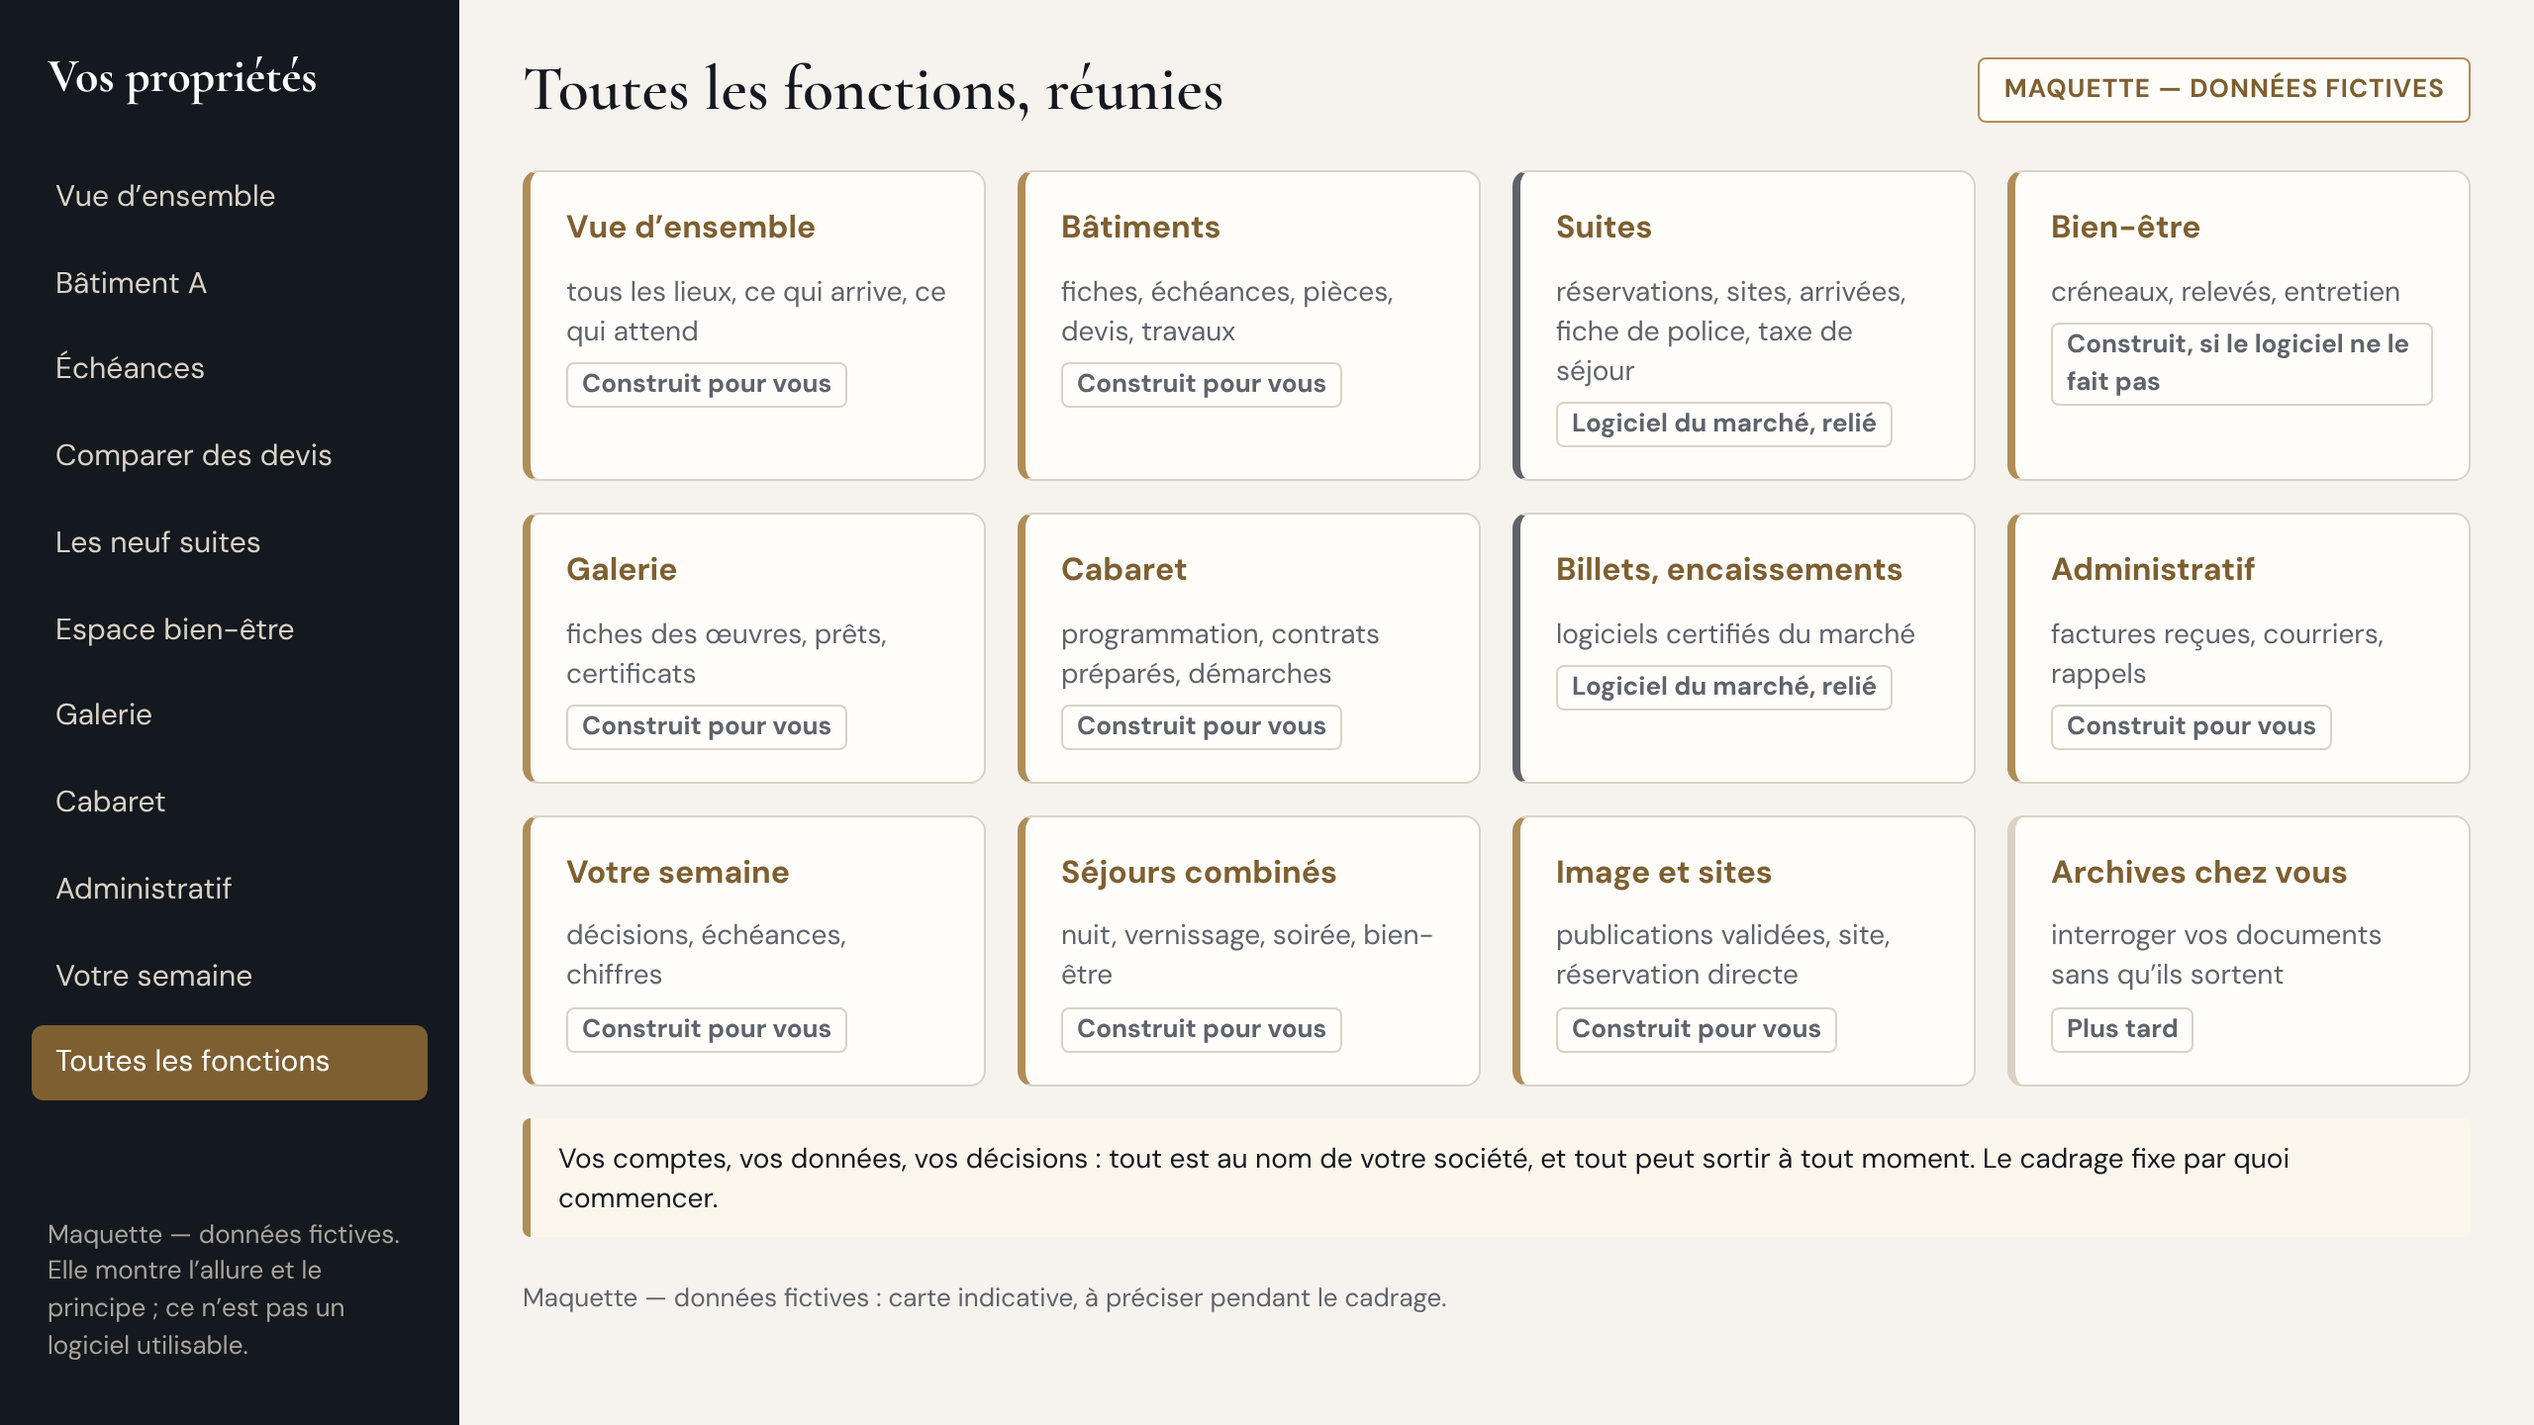
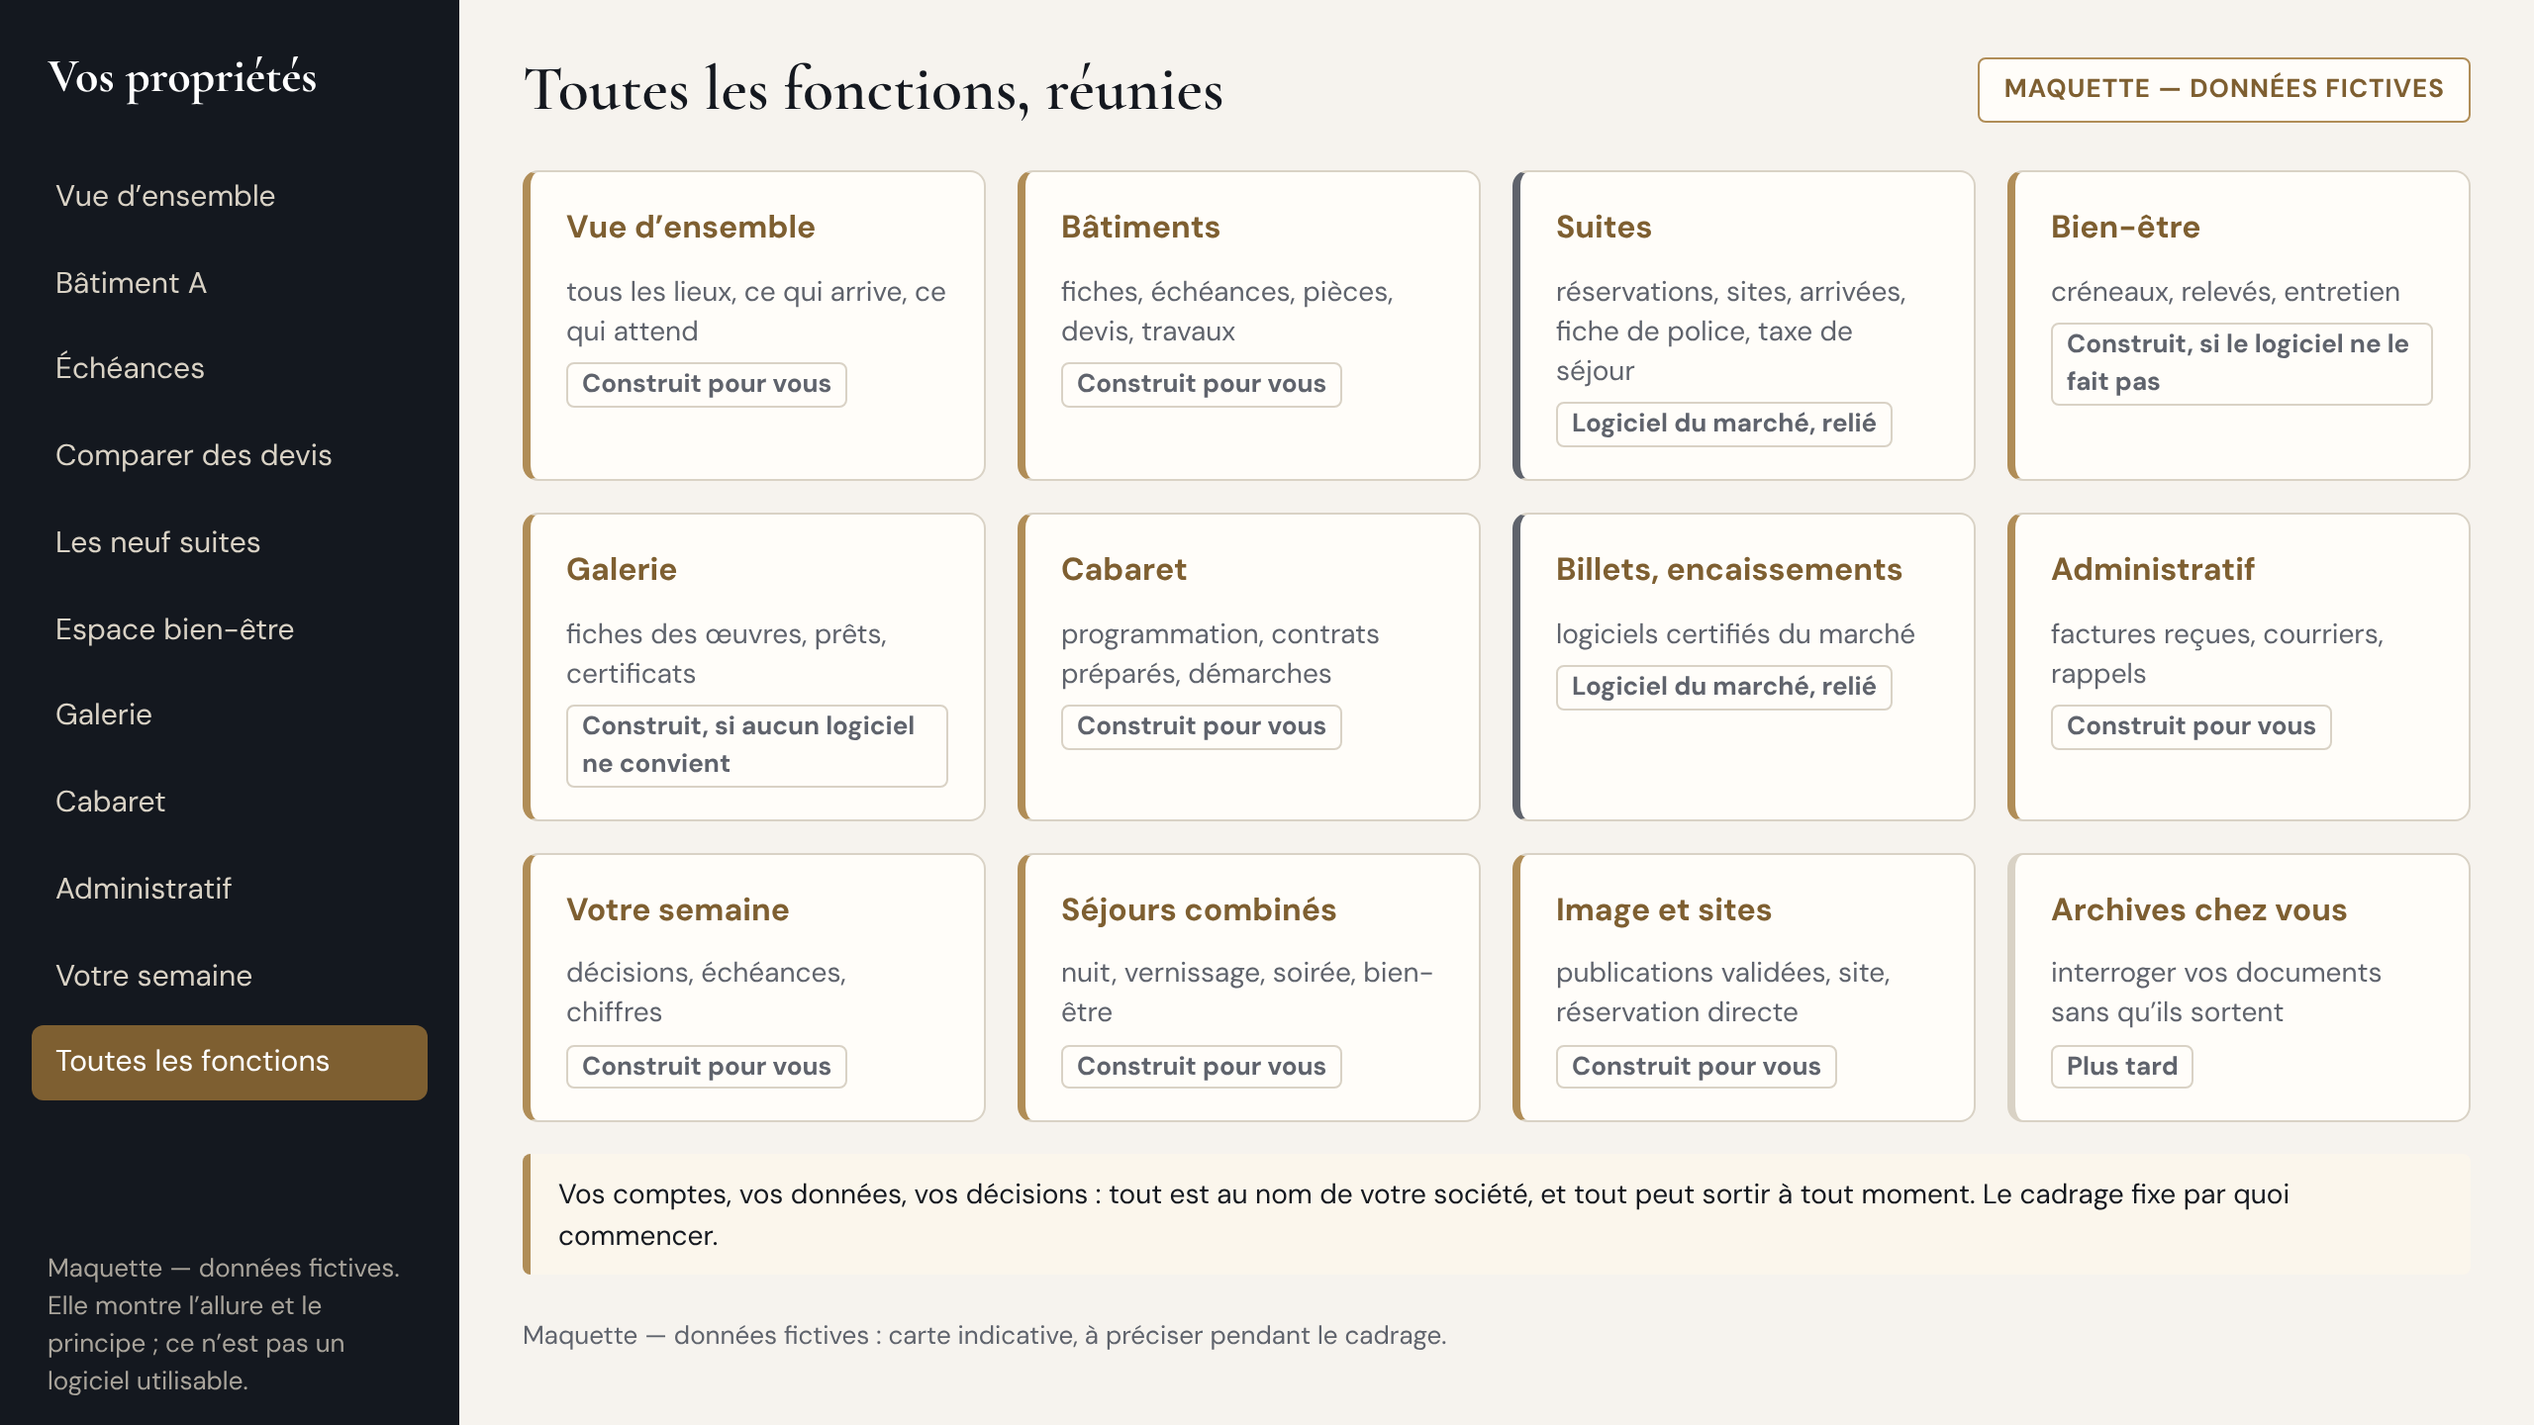
Fin de la relecture de cohérence : fiches et page ambition alignées, écran des fonctions de la maquette corrigé (galerie : logiciel du marché d'abord) et republié, sommaire et reprise à jour
Claude-Session: https://claude.ai/code/session_01NSae1c5m3W4Yonr32BAgb3

diff --git a/pour-carlone/presentation-ia/2026-11-10-version-12-projet/project/slides/fonctions.html b/pour-carlone/presentation-ia/2026-11-10-version-12-projet/project/slides/fonctions.html
@@ -21,7 +21,7 @@ et tout peut sortir.</p>
 <p style="font-size:24px;line-height:1.3;color:#5F636C">Maquette — données fictives</p>
 </div>
 </div>
-<img src="/_blob/c55ba6a500fe599788d5c95da0c4144f" alt="Écran Toutes les fonctions : douze blocs, chacun marqué « construit pour vous » ou « logiciel du marché, relié » — maquette, données fictives" style="width:1104px;height:621px;object-fit:contain;border:1px solid #D9D2C5;border-radius:16px;box-shadow:0px 24px 48px #14181F26">
+<img src="/_blob/e4bee9f3265a00353b2f5d0b11907895" alt="Écran Toutes les fonctions : douze blocs, chacun marqué « construit pour vous » ou « logiciel du marché, relié » — maquette, données fictives" style="width:1104px;height:621px;object-fit:contain;border:1px solid #D9D2C5;border-radius:16px;box-shadow:0px 24px 48px #14181F26">
 </div>
 <p style="position:absolute;left:128px;bottom:56px;width:1664px;font-size:24px;color:#5F636C">Marwin Tech · pour GianLuca Carlone · novembre 2026 · 15</p>
 <aside>Voici la carte de votre logiciel ; l’écran montré est une maquette, avec des données fictives. Ce que nous construisons pour vous : la vue d’ensemble de tous vos lieux, vos bâtiments et leurs échéances, les devis comparés, la galerie, le cabaret, l’espace bien-être, l’administratif, la page de votre semaine et les séjours combinés. Ce que nous prenons sur le marché et relions : les réservations de vos suites et leur lien avec les sites de réservation, la fiche de police et la taxe de séjour, les billets et les encaissements. Tout est à votre nom et peut sortir à tout moment. Le cadrage fixe par quoi commencer.</aside>

diff --git a/outils/2026-11-10-orchestration/rendu/lint.js b/outils/2026-11-10-orchestration/rendu/lint.js
@@ -13,6 +13,19 @@ const TAGS = new Set(['section', 'h1', 'h2', 'h3', 'p', 'ul', 'ol', 'li', 'br', 
 const VOID = new Set(['br', 'img', 'hr'])
 const ICONS = new Set('Activity Book Chart Chat Check CheckCircle Clock Cloud Code Database Globe GraduationCap Home Key Lightbulb Lightning Link Lock PaperPlane Play Search Settings Star ThumbsUp Tool Trust Users Verified Warning Wrench'.split(' '))
 const BLOBS = {
+  '978b33fb6a67a61eb7cddd412da92807': 'Maquette — données fictives',
+  'ca5c05894b7cb83f246620fbfe87cf73': 'Maquette — données fictives',
+  '350cfbd80fbdc22430717071f3ee3b3b': 'Maquette — données fictives',
+  '1b2ea244605412dde80b8ce6c60c6a25': 'Maquette — données fictives',
+  '0ff853b8e971486dbf4d7bc5cdd570ba': 'Maquette — données fictives',
+  '1bf0b8bb98320f23191cb005752f68a7': 'Maquette — données fictives',
+  '93ccdd00d255c1a63124e7cb89171197': 'Maquette — données fictives',
+  'e4bee9f3265a00353b2f5d0b11907895': 'Maquette — données fictives',
+  'e8c2d6f07d1eade1eab238e9fe94544a': 'Maquette — données fictives',
+  '0323693fb134fb5fa9dabd5434dbda5d': 'Maquette — données fictives',
+  'e6a52fd272f874369fa34a9a961fe98d': 'Maquette — données fictives',
+  'ad0412a37b6980cb8a80eb94c5f3363b': 'vision générée par IA',
+  '6fab0132c846ec1c3083832f2c086864': 'générée par IA',
   '0da19f0843c584b5fda3b7136d3818a6': 'vision générée par IA',
   '51a8be11835fa54a99fff4c0a99ac522': 'générée par IA',
   '99f8d10e60b36c00c9a38334b5a95ee4': 'générée par IA',

diff --git a/pour-carlone/maquettes/2026-11-10-ecrans-d-exemple/index.html b/pour-carlone/maquettes/2026-11-10-ecrans-d-exemple/index.html
@@ -367,7 +367,7 @@ td{border-bottom:1px solid #ECE6DC;padding:9px 8px;vertical-align:top}
     <div class="carte mod"><h2>Bâtiments</h2><div class="sous">fiches, échéances, pièces, devis, travaux</div><span class="badge">Construit pour vous</span></div>
     <div class="carte mod marche"><h2>Suites</h2><div class="sous">réservations, sites, arrivées, fiche de police, taxe de séjour</div><span class="badge">Logiciel du marché, relié</span></div>
     <div class="carte mod"><h2>Bien-être</h2><div class="sous">créneaux, relevés, entretien</div><span class="badge">Construit, si le logiciel ne le fait pas</span></div>
-    <div class="carte mod"><h2>Galerie</h2><div class="sous">fiches des œuvres, prêts, certificats</div><span class="badge">Construit pour vous</span></div>
+    <div class="carte mod"><h2>Galerie</h2><div class="sous">fiches des œuvres, prêts, certificats</div><span class="badge">Construit, si aucun logiciel ne convient</span></div>
     <div class="carte mod"><h2>Cabaret</h2><div class="sous">programmation, contrats préparés, démarches</div><span class="badge">Construit pour vous</span></div>
     <div class="carte mod marche"><h2>Billets, encaissements</h2><div class="sous">logiciels certifiés du marché</div><span class="badge">Logiciel du marché, relié</span></div>
     <div class="carte mod"><h2>Administratif</h2><div class="sous">factures reçues, courriers, rappels</div><span class="badge">Construit pour vous</span></div>

diff --git a/outils/2026-11-10-orchestration/maquette-sources/ecrans/11-fonctions.html b/outils/2026-11-10-orchestration/maquette-sources/ecrans/11-fonctions.html
@@ -5,7 +5,7 @@
     <div class="carte mod"><h2>Bâtiments</h2><div class="sous">fiches, échéances, pièces, devis, travaux</div><span class="badge">Construit pour vous</span></div>
     <div class="carte mod marche"><h2>Suites</h2><div class="sous">réservations, sites, arrivées, fiche de police, taxe de séjour</div><span class="badge">Logiciel du marché, relié</span></div>
     <div class="carte mod"><h2>Bien-être</h2><div class="sous">créneaux, relevés, entretien</div><span class="badge">Construit, si le logiciel ne le fait pas</span></div>
-    <div class="carte mod"><h2>Galerie</h2><div class="sous">fiches des œuvres, prêts, certificats</div><span class="badge">Construit pour vous</span></div>
+    <div class="carte mod"><h2>Galerie</h2><div class="sous">fiches des œuvres, prêts, certificats</div><span class="badge">Construit, si aucun logiciel ne convient</span></div>
     <div class="carte mod"><h2>Cabaret</h2><div class="sous">programmation, contrats préparés, démarches</div><span class="badge">Construit pour vous</span></div>
     <div class="carte mod marche"><h2>Billets, encaissements</h2><div class="sous">logiciels certifiés du marché</div><span class="badge">Logiciel du marché, relié</span></div>
     <div class="carte mod"><h2>Administratif</h2><div class="sous">factures reçues, courriers, rappels</div><span class="badge">Construit pour vous</span></div>

diff --git a/audit/2026-11-10-preparation-des-livrables/README.md b/audit/2026-11-10-preparation-des-livrables/README.md
@@ -50,8 +50,9 @@ Notes internes correspondantes : `interne/offre-cadrage/`, `interne/developpemen
 ## 4. État des contrôles
 
 - **Contrôle mécanique** (`lint-doc.js`, `lint.js`) : 0 erreur sur tous les documents clients et les 36 diapositives ; pages uniques sur une page A4, fiches sur deux pages au plus.
-- **Notes de recherche vérifiées** (partie « Vérification du 10 novembre 2026 ») : k1a, k4, k7, k8, k9, k10, k11, k12, k13a, k13b, k13c, k13d, k13f ; k14 écrite et contrôlée le 10 novembre. **Vérification en cours** : k1b, k2, k3 (bon de commande, création de la SAS, fichier de contacts). **Non vérifiées** : k5, k6, k7b ; k13e inachevée (aucun document client ne s’appuie sur elle).
-- **Relecture de cohérence** de tout ce que Carlone verra (mêmes montants, dates, mots ; aucune contradiction entre fiches, pages et diapositives) : en cours, en deux lots.
+- **Notes de recherche vérifiées** (partie « Vérification du 10 novembre 2026 ») : k1a, k1b, k2, k3, k4, k7, k8, k9, k10, k11, k12, k13a, k13b, k13c, k13d, k13f ; k14 écrite et contrôlée le 10 novembre. **Non vérifiées** : k5, k6, k7b ; k13e inachevée (aucun document client ne s’appuie sur elle).
+- **Relecture de cohérence** de tout ce que Carlone verra (mêmes montants, dates, mots ; aucune contradiction entre fiches, pages et diapositives) : faite en deux lots le 10 novembre au soir ; diapositives et maquette republiées. Vocabulaire retenu : « un essai de huit semaines au plus, sur une seule tâche, mesurée avant et après » ; « trois tâches au plus à essayer » ; « environ une à deux journées sur trois à quatre semaines, sur ses heures de travail » ; cession « une fois le prix dû payé » ; horizons 2027, 2028, 2030.
+- **À trancher par Morgan et Mathys** : une seule règle pour le solde (bon de commande : « payables sous huit jours » et « au plus tard trente jours après la remise ») ; les pièces du 9 novembre qui promettent une attestation d’assurance (proposition, l. 99 ; méthode, l. 110) : ne pas les montrer, ou les corriger par une mention datée.
 - **Restent hors de notre portée** (à faire valider par des professionnels) : bureau de contrôle (classement de l’établissement avec des locaux à sommeil) ; avocat (dispositif de l’article L1222-4, conservation, charte, bon de commande, information sur le fichier de contacts, reproduction des œuvres avec l’ADAGP, registre des objets mobiliers) ; expert-comptable (option pour la TVA, régime de TVA des ventes d’œuvres, CFE, convention collective) ; mairie et ARS (déclaration du jacuzzi) ; assureur (espace bien-être, responsabilité civile professionnelle de Marwin Tech).
 - **Non vérifié** : prix hors taxes de Scaleway ; prix en euros du DGX Spark ; disponibilité des noms de programmes (recherche INPI, V13).
 

diff --git a/REPRISE-2026-11-10.md b/REPRISE-2026-11-10.md
@@ -14,7 +14,7 @@ Document interne — ne pas transmettre à GianLuca Carlone. Rédigé pour repre
 - Texte d’orateur (32 minutes), antisèche, objections, feuille de décisions (V1 à V14) mis à jour.
 - Notes vérifiées : k1a, k4, k7, k8, k9, k10, k11, k12, k13a à k13d, k13f ; fiches 1, 2, 4, 5, page de l’administratrice, autorisations et échéancier corrigés en conséquence.
 
-**En cours au moment de l’écriture** (si la session s’arrête, à relancer) : vérification de k1b, k2 et k3 ; relecture de cohérence de tout ce que Carlone verra, en deux lots (offre, bon de commande, fiche 10 et diapositives ; fiches, idées, logiciel). Les résultats sont poussés dès qu’ils arrivent ; le message de commit le dit.
+**Terminé ensuite** : vérification de k1b, k2 et k3 (bon de commande corrigé : paiement « ni demandé ni reçu » pendant sept jours, cession des droits détaillée, à faire relire par l’avocat) ; relecture de cohérence en deux lots, diapositives (douze) et maquette republiées, texte d’orateur aligné. Les blobs d’images de la présentation sont listés dans `outils/2026-11-10-orchestration/rendu/lint.js` (l’écran des fonctions a un nouvel identifiant).
 
 **Reste** : décisions V1 à V14 (jeudi 12 au soir) ; validations par des professionnels (liste au § 4 du sommaire) ; k5, k6, k7b non vérifiées ; k13e inachevée ; prix Scaleway et DGX Spark non vérifiés ; recherche INPI sur les noms de programmes (V13).
 

diff --git a/pour-carlone/fiches/2026-11-10-fiche-10-travailler-avec-nous.md b/pour-carlone/fiches/2026-11-10-fiche-10-travailler-avec-nous.md
@@ -47,7 +47,7 @@ Si la commande est signée avant la mi-décembre, voici un déroulé possible. C
 | Période | Ce qui se passe | Ce que vous avez en main |
 | --- | --- | --- |
 | Janvier 2027 | Le cadrage : entretien, inventaire, trois priorités | Un dossier qui appartient à votre société, dès le solde payé |
-| Février et mars 2027 | Un essai de huit semaines sur votre première priorité, par exemple le registre de vos bâtiments ou le choix du logiciel de vos suites | Un résultat mesuré, comparé à sa mesure de départ |
+| Février et mars 2027 | Un essai de huit semaines au plus sur votre première priorité, par exemple le registre de vos bâtiments ou le choix du logiciel de vos suites | Un résultat mesuré, comparé à sa mesure de départ |
 | Avril 2027 | Le bilan : continuer, ajuster ou arrêter | Une décision fondée sur des chiffres |
 
 L’essai se commande à part, après le cadrage. Les dates dépendent aussi de l’ouverture de vos suites, encore inconnue.
